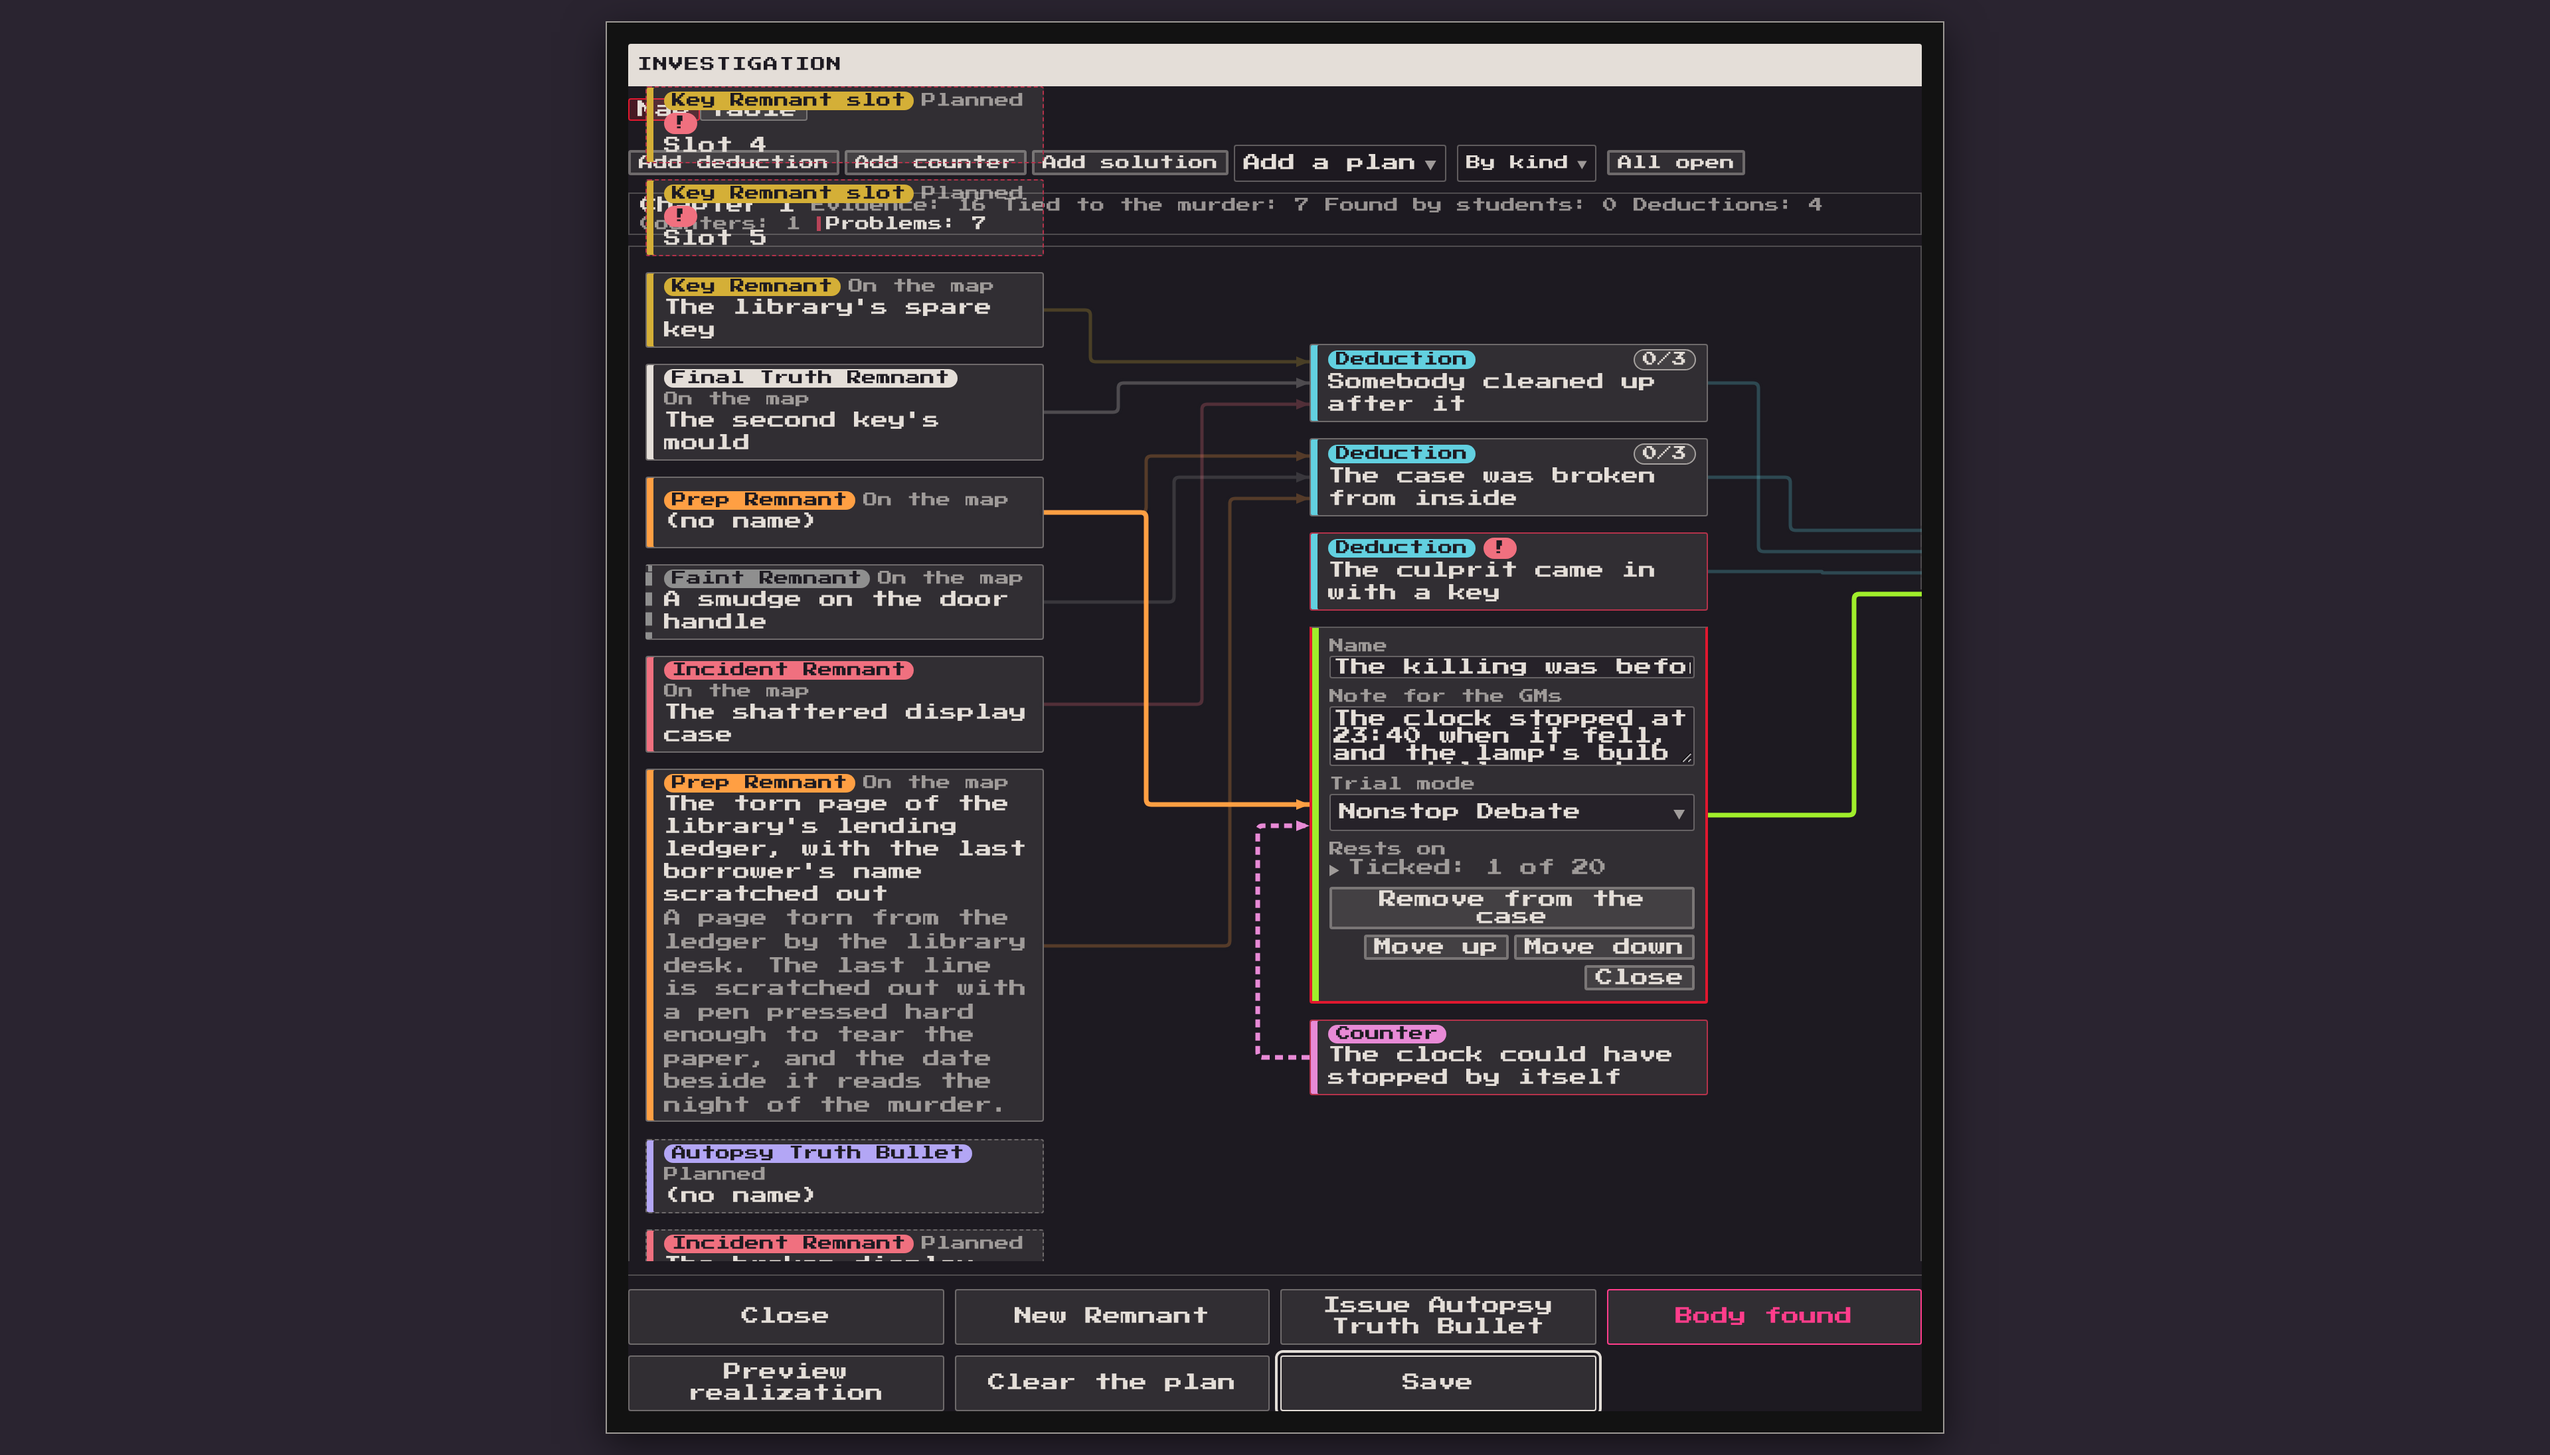
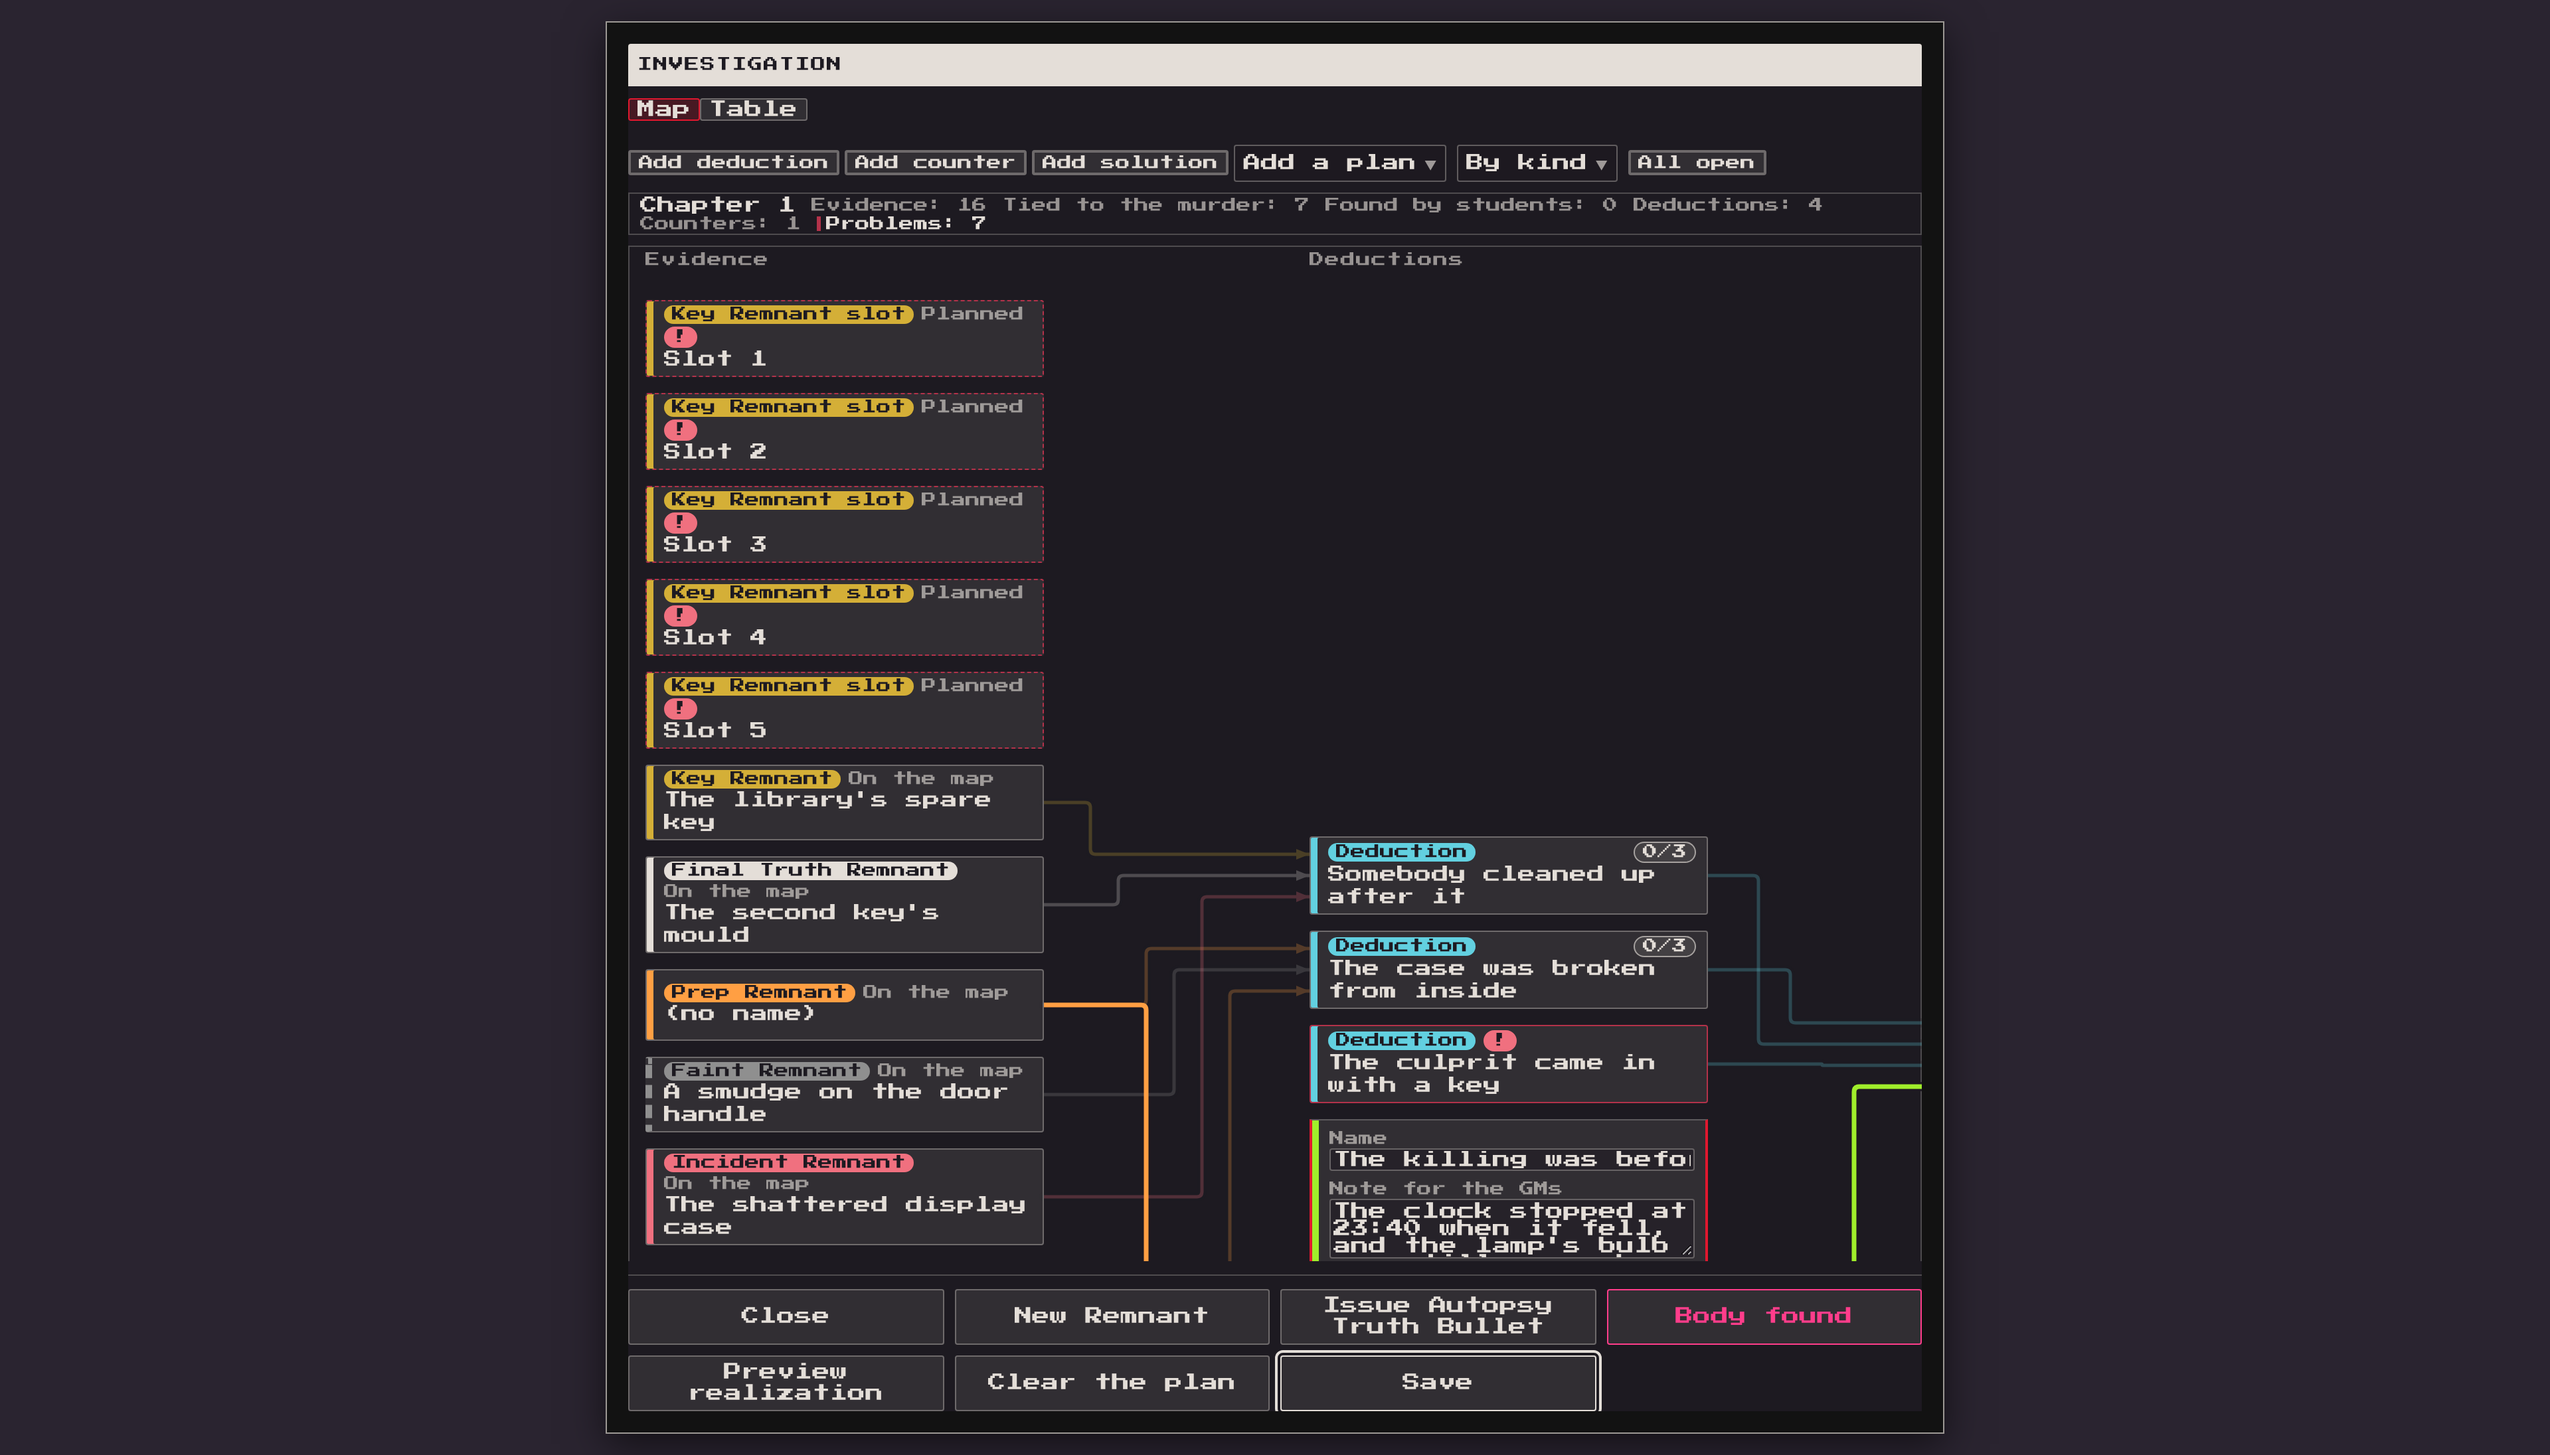
1.2.120 line P: the order's select at the theme's size; the shots' toolbar overlap was the sweep's; the Table filter's test [skip ci]
- components.css: the column order's select (select.drpg-case-sort) no longer forces the
  extra-small text: 11 px beside "Add a plan" at 21 under Stained Glass (11 and 13 under
  Legacy), read in Chromium. It now takes the theme's select size, as "Add a plan".
  Under Stained Glass at 1100 px "All open" then wraps to a second toolbar row.
- case-map-sweep.mjs: a toolbar read (the two selects at one computed size) with a planted
  control. Red at e515907d (11 px beside 21 on every glass page), green here.
- The nodes drawn over the toolbar in the shots were the sweep's own: its whole-canvas shot
  lifts the graph's clip while the camera stands moved to reveal the open node. The "-view"
  shot (the window as the GM sees it) clips. The sweep now puts the camera back to its origin
  first; every Map shot in docs/dev/p120 taken again with it, 1.2.119's included, and
  toolbar-*.png added (the window as the GM sees it).
- Tier 2 "the Table's filter picked with the pointer redraws the Table at once": red at
  e515907d {redrawn: false}, green here (the live.mjs hunks of 2a45c693).

QUICK GREEN at this tree: lint/check/gate ok; t01 ok (1820 passed, 0 failed, 16 skipped);
related tier 2 ok (126 tests, 132 passed, 0 failed); case-map-sweep 12 pages, 0 failing.

Claude-Session: https://claude.ai/code/session_01QsWhUatHpWh7WmkZygzKX9

diff --git a/styles/components.css b/styles/components.css
@@ -3799,7 +3799,11 @@ body .application.drpg-ui.drpg-panel:is(.drpg-window-case, .drpg-window-trial) :
 .application.drpg-window-case .drpg-case-tools { flex: 0 0 auto; display: flex; flex-wrap: wrap; align-items: center; gap: 0.25rem 0.5rem; min-width: 0; }
 .application.drpg-window-case .drpg-case-tools-row { display: flex; flex-wrap: wrap; align-items: center; gap: 0.25rem; }
 body .application.drpg-window-case .drpg-case-tools button { flex: 0 0 auto; min-width: 0; margin: 0; padding: 2px 6px; font-size: var(--drpg-text-xs); }
-.application.drpg-window-case select.drpg-case-sort { flex: 0 1 auto; min-width: 0; font-size: var(--drpg-text-xs); }
+/* the order's select at the theme's select size, as "Add a plan" beside it (line P of 1.2.120; the coordinator, from the
+   owner's shots: "the sort select's 'By hand' is drawn at a tiny font next to the other toolbar controls"): it stood at
+   the extra-small text, 11 px under Stained Glass beside "Add a plan" at 21 (Chromium, audit/case-map-sweep.mjs's
+   toolbar read); now the two read alike in both themes */
+.application.drpg-window-case select.drpg-case-sort { flex: 0 1 auto; min-width: 0; }
 /* THE CAMERA'S BUTTONS in a strip of their own under the graph, at its right (E99 round 5, 12.11.2026): over the graph's
    corner they lay over a node, and after Fit to view the nodes reach every edge of the viewport (case-map.mjs
    `wireCaseMap`; audit/case-map-sweep.mjs reads the bar against every node, at rest and fitted). */

diff --git a/docs/dev/p120/README.md b/docs/dev/p120/README.md
@@ -66,8 +66,19 @@ column by its inputs, as 1.2.119 does. The hover shots were taken by a small pro
 page as the sweep's, with the node hovered by Playwright's pointer. For 1.2.119 its server served e515907d's
 stylesheets.
 
-What the shots are not: Foundry's frame and stylesheet (the harness's capture). In the Map shots, some nodes of the first
-column are drawn over the toolbar at the top left, where the sweep's camera scrolled to reveal the open node. This shows
-in 1.2.119's shots as well, so it is older than this line, and it was not looked into here. The sweep read 0 cuts,
-0 overlaps and no hover under AA on all eight of this line's pages (both themes, 1366x768 and 1920x1080, before and
-after).
+What the shots are not: Foundry's frame and stylesheet (the harness's capture).
+
+## The toolbar: nodes drawn over it, and "By hand" drawn small
+
+| File | Code | What it shows |
+| --- | --- | --- |
+| `shots/toolbar-1.2.119-glass.png`, `shots/toolbar-1.2.119-legacy.png` | e515907d | the window as the GM sees it (the camera on the open node, the graph clipped): the order's select at 11 px beside "Add a plan" at 21 under Stained Glass |
+| `shots/toolbar-1.2.120-glass.png`, `shots/toolbar-1.2.120-legacy.png` | this line | the order's select at the theme's select size, as "Add a plan" (under Stained Glass "All open" then wraps to a second row at this window's 1100 px) |
+
+THE NODES OVER THE TOOLBAR WERE THE SHOTS', NOT THE WINDOW'S. The Map shots sent before 21.11.2026 04:30 UTC (this
+folder's first versions) were taken by the sweep's whole-canvas shot, which lifts the graph's clip to show every node -
+while the camera stood moved to reveal the open node, so the canvas spilled up over the toolbar. The "-view" shot of the
+same page, the window as the GM sees it, has the graph clipped and nothing over the toolbar (`toolbar-*.png` here are
+those). The sweep now puts the camera back to its origin before the whole-canvas shot, and every Map shot in this folder
+was taken again with it, 1.2.119's included. The sweep read 0 cuts, 0 overlaps, no hover under AA, no line through a node and the toolbar's selects alike on all
+twelve of this line's pages (the lanes and Move captures, both themes, 1366x768 and 1920x1080).
